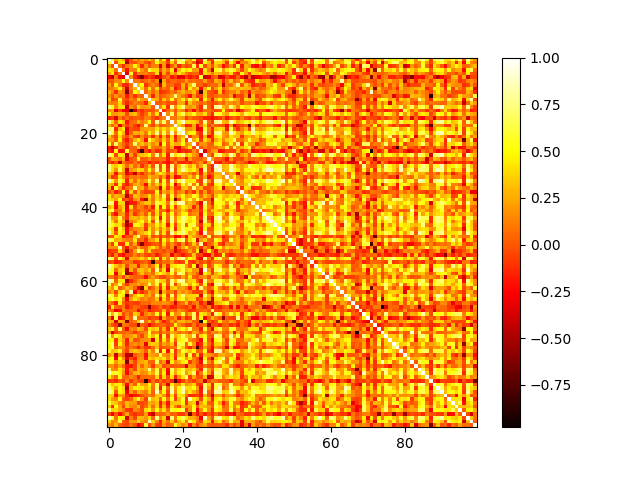
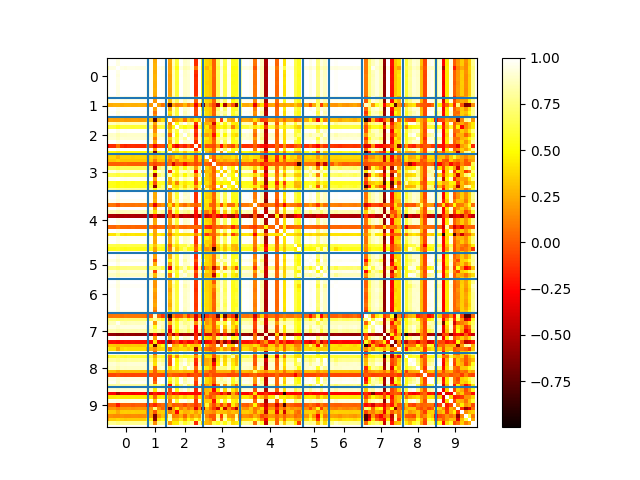
finished basic correlation statistics

diff --git a/project/large_models/calc_grads.py b/project/large_models/calc_grads.py
@@ -1,5 +1,6 @@
 import pandas as pd
 import numpy as np
+import math
 import matplotlib.pyplot as plt
 from sklearn import linear_model
 import supporting_functions as sf
@@ -16,7 +17,7 @@ def calc_grad(n,data):
     return pd.Series(data=grads)
 
 n=3
-dataused = len(df.index)
+dataused = 100#len(df.index)
 front = df.iloc[:dataused,:3]
 df = df.iloc[:dataused,3:]
 for i in range(n,len(df.columns)-3):
@@ -27,9 +28,10 @@ for i in range(n,len(df.columns)-3):
     else:
         grads = pd.concat([grads,pd.DataFrame(data=rolling_grads ,columns=[str(i)])],axis=1)
 
-
+front = front.reset_index().drop(columns=['Unnamed: 0'])
 grads = pd.concat([front,grads],axis=1)
 
+'''
 fig1, ax =plt.subplots(2)
 for lab in range(10):
     sub_df = grads[grads['label']==lab].copy()
@@ -46,7 +48,8 @@ ax[1].set_ylabel('Average Gradient\nDifference From Mean')
 #ax[1].set_ylim([-0.15,0.15])
 fig1.savefig('label_avg_grad',bbox_inches='tight')
 plt.close()
-
+'''
+'''
 #calc correlation
 correlation = np.zeros((10,10))
 fig, ax = plt.subplots(10,10)
@@ -60,7 +63,7 @@ for i in range(10):
         j_df = grads[grads['label']==j].copy()
         j_df = j_df.iloc[:,3:].mean(axis=0)-grads.iloc[:,3:].mean(axis=0)
         j_df = j_df.pct_change()
-        correlation[i,j] = i_df.corr(j_df)
+        correlation[i,j] = i_df.corr(j_df,method='spearman')
         ax[i,j].scatter(i_df,j_df,s=0.25,label=str(i)+ ' - '+str(j))
         #ax[i,j].set_ylim([-5,1])
         #ax[i,j].set_xlim([-5,20])
@@ -69,7 +72,7 @@ for i in range(10):
             ax[i,j].set_yticks([])
         if j != 0:
             ax[i,j].set_xticks([])
-fig.savefig('corr_plot_diffmean',dpi=500,bbox_inches='tight')
+fig.savefig('corr_plot_spear_5',dpi=500,bbox_inches='tight')
 plt.close()
 
 plt.imshow(correlation,cmap='hot')
@@ -77,39 +80,65 @@ plt.xticks(range(10))
 plt.yticks(range(10))
 plt.colorbar()
 #plt.clim(-1,1)
-plt.title('Correlation Between Classes Based\nOn Percentage Change Of Gradient Difference\nFrom The Mean Over 3 Epochs')
-plt.savefig('heatmap_3_frommean')
+plt.title('Spearman\'s Correlation Between Classes Based On Percentage Change Of\nGradient Difference From The Mean Over 5 Epochs')
+plt.savefig('heatmap_5_frommean_spear',bbox_inches='tight')
 plt.close()
+'''
 
 #measuring the correlation between all of the images:
-'''
-dataused= len(grads.index) #number of images to use
+dataused= 100 #number of images to use
 #maybe sort by the label here
-img_corr = grads.iloc[:dataused,3:].pct_change(axis=1).T.corr()
-
+grads = grads.sort_values(['label'])
+img_corr = (grads.iloc[:dataused,3:]-grads.iloc[:dataused,3:].mean(axis=0)).pct_change(axis=1).T.corr()
+#img correlations are in relative indexes not img identifiers here
+'''
 plt.imshow(img_corr,cmap='hot')
 plt.colorbar()
+#calc number of each class
+num_class = [len(grads[grads['label']==x].index) for x in range(10)]
+per_class = []
+mid_class = []
+for i in range(10):
+    if i == 0:
+        per_class.append(num_class[i])
+        mid_class.append(math.floor(num_class[i]/2))
+    else:
+        per_class.append(num_class[i] + per_class[i-1])
+        mid_class.append(math.floor(num_class[i]/2) + per_class[i-1])
+print(per_class)
+print(mid_class)
+
+per_class = per_class[:-1]
+plt.vlines(per_class,0,100)
+plt.hlines(per_class,0,100)
+plt.xlim([0,100])
+plt.ylim([100,0])
+plt.xticks(mid_class,range(10))
+plt.yticks(mid_class,range(10))
+
 plt.savefig('img_heatmap')
 '''
-'''
+
 #find the top and bottom n correlated images
 #set the diagonal to 0
 for i in range(dataused):
     img_corr.iloc[i,i] = 0
-
 #find the highest correlations
-idx_max = img_corr.idxmax(axis=1)[0] #the col idx with highest corr in it
-idx_min = img_corr.idxmin(axis=1)[0]  
-
-n_max = img_corr.iloc[:,idx_max].nlargest(5) #in terms of relative index need to convert back to original
-n_max = n_max.reset_index()
-
-n_min = img_corr.iloc[:,idx_min].nsmallest(5)
-n_min = n_min.reset_index()
-
+sorted_idx = np.dstack(np.unravel_index(np.argsort(img_corr.values.ravel()), (dataused, dataused)))
+sorted_idx = sorted_idx[0][::2]
+#convert to img_corr indexes
+sorted_idx = [[img_corr.index[x[0]],img_corr.index[x[1]]] for x in sorted_idx]
+#convert to og img indexes
+sorted_idx = [[grads.loc[x[0],'i'],grads.loc[x[1],'i']] for x in sorted_idx]
+#list the correlations
+sorted_corr = np.sort(img_corr.values.ravel())
+sorted_corr = sorted_corr[::2]
+print(str(sorted_corr[-4])[:5])
 #using this show the correlated and uncorrelated images
 img_data = pd.read_csv('datasets/mnist/imagedata.csv')
-img_data = img_data.iloc[:dataused]
+#need to use the whole dataset as the indexes need to be referenced (should be able to shorten in some way)
+img_data = img_data.drop(columns=['Unnamed: 0'])
+img_data = img_data.set_index('i')
 
 def img_dim_shift(img,info):
     #x is a vector of strings
@@ -130,23 +159,26 @@ class Info():
 info = Info()
 
 #print base image and then most correlated
-fig , ax = plt.subplots(5,2)
-ax[0,0].imshow(img_dim_shift(img_data.loc[idx_max,'img'],info))
-ax[0,1].imshow(img_dim_shift(img_data.loc[idx_min,'img'],info))
-ax[0,0].tick_params(color='red')
-ax[0,1].tick_params(color='red')
-for i in range(1,5):
-    ax[i,0].imshow(img_dim_shift(img_data.loc[n_max.loc[i,'index'],'img'],info))
-    ax[i,1].imshow(img_dim_shift(img_data.loc[n_min.loc[i,'index'],'img'],info))
+fig , ax = plt.subplots(5,4)
 
-for i in range(2):
+for i in range(5):
+    ax[i,0].imshow(img_dim_shift(img_data.loc[sorted_idx[i][0],'img'],info))
+    ax[i,1].imshow(img_dim_shift(img_data.loc[sorted_idx[i][1],'img'],info))
+    ax[i,1].set_ylabel(str(sorted_corr[i])[:6],rotation=0,labelpad=25)
+
+    ax[i,2].imshow(img_dim_shift(img_data.loc[sorted_idx[-(i+1)][0],'img'],info))
+    ax[i,3].imshow(img_dim_shift(img_data.loc[sorted_idx[-(i+1)][1],'img'],info))
+    ax[i,3].set_ylabel(str(sorted_corr[-(i+1)])[:5],rotation=0,labelpad=25)
+
+for i in range(4):
     for j in range(5):
         ax[j,i].set_xticks([])
         ax[j,i].set_yticks([])
+ax[0,2].annotate('',xy=(-0.5,1),xycoords='axes fraction',xytext=(-0.5,-5),arrowprops=dict(arrowstyle="-",color='k'))
 
 plt.savefig('most_corr')
 
-'''
+
 
 
 

diff --git a/project/large_models/RunTest.py b/project/large_models/RunTest.py
@@ -83,7 +83,6 @@ for info.current_epoch in range(info.max_epochs): #this may not work.
     #collect train dataset from the dataset via a scoring function
     #train_ds = sf.collect_train_data(df_train_losses,info)
     
-
     #create the column for losses
     col = pd.DataFrame(columns=['i',str(info.current_epoch)])
 
